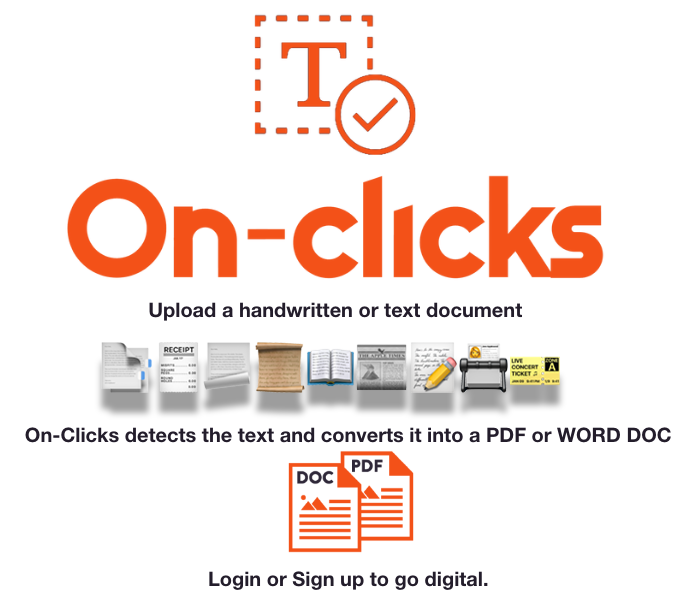
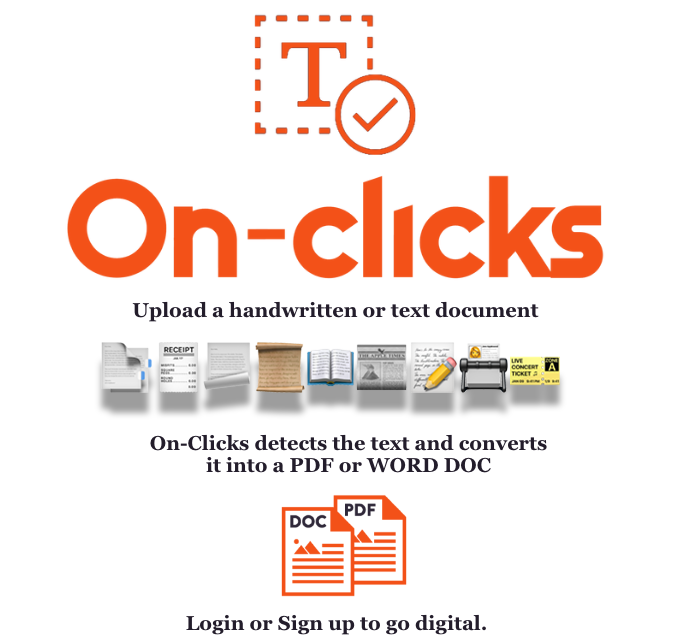
finished styling and proper page set up

diff --git a/src/pages/Profile.js b/src/pages/Profile.js
@@ -1,1 +1,51 @@
-// import React from "react";
+import React from "react";
+import Card from "react-bootstrap/Card"
+import Button from "react-bootstrap/Button"
+import Container from "react-bootstrap/Container"
+import DropdownButton from "react-bootstrap/DropdownButton"
+import Dropdown from "react-bootstrap/Dropdown"
+import InputGroup from "react-bootstrap/InputGroup"
+import FormControl from "react-bootstrap/FormControl"
+import Modal from "react-bootstrap/Modal"
+import { userInfo } from "os";
+
+
+function Profile (){ 
+    return(
+    <Container style = {{ marginTop: 50, justifyContent:'center', display: 'flex' }}>
+    <Card border="info" style={{ width: '18rem' }} style={{ width: '18rem' }}>
+  <Card.Img variant="top" src="./images/user.png" />
+  <Card.Body>
+    <Card.Title>Welcome {userInfo} </Card.Title>
+    <Card.Text>
+      <span>Translate a photo document into a WORD DOC or PDF.</span>
+    </Card.Text>
+    <Button variant="outline-info">Upload and Translate</Button>
+    <Card.Text><br></br>
+        <span>Search for previous documents</span>
+    </Card.Text>
+    <InputGroup className="mb-3">
+    <DropdownButton
+      as={InputGroup.Prepend}
+      variant="outline-info"
+      title="Format"
+      id="input-group-dropdown-1"
+    >
+      <Dropdown.Item href="#">PDF</Dropdown.Item>
+      <Dropdown.Item href="#">WORD DOC</Dropdown.Item>
+      <Dropdown.Divider />
+      <Dropdown.Item href="#">Both</Dropdown.Item>
+    </DropdownButton>
+    <FormControl aria-describedby="basic-addon1" />
+  </InputGroup> 
+   </Card.Body>
+</Card>
+</Container>
+
+    )}
+
+export default Profile;
+
+
+
+

diff --git a/src/pages/Upload.js b/src/pages/Upload.js
@@ -79,13 +79,13 @@ class Upload extends Component {
             return (
                 <div>
             {/* website description */}
-            <Container style = {{ marginTop: 10, justifyContent:'center' }}>
+            <Container border='light' style = {{ marginTop: 10, justifyContent:'center'}}>
             <div>
                 <h1>Upload Your File to be Scanned</h1>
                 <p>Allow our App to read the text off of your image and translate it into a useable format to either save for later retrieval.  Edit to make it more readable.  Or you can save it to a document or PDF.</p>
             </div>
             <div>
-            <img className="img-thumbnail rounded mx-auto d-block" src = "./images/ai-upload.gif" alt = "scan-doc" />
+            <img className="img-thumbnail rounded mx-auto d-block" src = "./images/uploadimg.png" alt = "scan-doc" />
 
             </div>
             </Container>
@@ -98,7 +98,7 @@ class Upload extends Component {
                 {/* <label className="up_styles"> */}
                 <input type="file" name="upload" onChange={this.onChange} />    
                 {/* </label>     */}
-            <Button className="sub outline-success btn-lg" type="submit" value="Upload">Upload</Button>
+            <Button className="outline-info btn-md" type="submit" value="Upload">Upload</Button>
             </Form>
             </div>
             <div><h2>{this.state.return}</h2></div>

diff --git a/src/pages/About.js b/src/pages/About.js
@@ -1,0 +1,28 @@
+import React from "react";
+import Container from "react-bootstrap/Container";
+import Col from "react-bootstrap/Col"
+import Row from "react-bootstrap/Row"
+
+function About () {
+    return (
+        <Container style = {{ marginTop: 30, justifyContent:'center' }}>
+  <Row>
+    <Col>
+    <img src="./images/aboutimg.png"></img>
+    </Col>
+    <Col>Although it is good practice, the answer is no. 
+From receipts to your Uncle Johns hand written short story, On-Clicks is designed with Googles Optical Character Recognition (OCR) to pick up each text character and format it into a digital file. 
+We are always looking to improve technology. Please let us know how we can get there with a kind email.</Col>
+  </Row>
+  <br></br>
+  <br></br>
+  <Row>
+    <Col><img src="./images/textsamplepickup.png"/></Col>
+    <Col><img src="./images/textsample.png" alt="photo-of-text" /></Col>
+    <Col><img src="./images/textconverted.png"/></Col>
+  </Row>
+</Container>
+    
+    )
+    }
+export default About

diff --git a/src/App.js b/src/App.js
@@ -7,8 +7,9 @@ import Navbar from "./components/Navbar";
 import Landing from "./pages/Landing";
 import Wrapper from "./components/Wrapper";
 import Footer from "./components/Footer";
-// import About from "./pages/About";
+import About from "./pages/About";
 import Upload from "./pages/Upload";
+import Profile from "./pages/Profile";
 
 
 class App extends Component {
@@ -20,10 +21,9 @@ class App extends Component {
       <Wrapper>
           <Route exact path="/" component={Landing} />
           <Route exact path="/HOME" component={Landing} />
-          <Route exact path="/PROFILE" component={Landing} />
-          {/* <Route exact path="/SEARCH" component={About} /> */}
-          {/* <Route exact path="/ABOUT" component={About} /> */}
+          <Route exact path="/PROFILE" component={Profile} />
           <Route exact path="/UPLOAD" component={Upload} />
+          <Route exact path="/ABOUT" component={About} />
 
         </Wrapper>
 

diff --git a/src/components/Navbar/index.js b/src/components/Navbar/index.js
@@ -25,7 +25,7 @@ function Navbar() {
           </li>
           <li className="nav-item">
             <Link
-              to="/userprofile"
+              to="/profile"
               className={window.location.pathname === "/profile" ? "nav-link active" : "nav-link"}
             >
               PROFILE
@@ -36,17 +36,9 @@ function Navbar() {
               to="/about"
               className={window.location.pathname === "/about" ? "nav-link active" : "nav-link"}
             >
-              SEARCH 
-            </Link>
-          </li>
-          {/* <li className="nav-item">
-            <Link
-              to="/about"
-              className={window.location.pathname === "/about" ? "nav-link active" : "nav-link"}
-            >
               ABOUT
             </Link>
-            </li> */}
+            </li>
             <li className="nav-item">
             <Link
               to="/upload"

diff --git a/src/components/Navbar/style.css b/src/components/Navbar/style.css
@@ -1,16 +1,17 @@
 nav.navbar {
-  display: grid;
+  justify-content: space-between;
+  display: flex;
   margin-bottom: 0;
   background-color: #bcd0da4d;
   font-family: -apple-system, BlinkMacSystemFont, Roboto, Oxygen, Ubuntu, Cantarell, 'Open Sans', 'Helvetica Neue', sans-serif;
-  grid-template-columns: 1fr  1fr;
+  /* grid-template-columns: 1fr  1fr; */
   margin-bottom: -10px;
 
 }
 
 
 navbar-nav {
-  display: inline-block;
-  margin: 0 20px;
+  /* display: inline-block; */
+  /* margin: 0 20px; */
 }
 

diff --git a/src/pages/Landing.js b/src/pages/Landing.js
@@ -16,13 +16,13 @@ function Landing () {
 {/* Buttons */}
 <div>
 <Container style = {{ marginTop: 10, justifyContent:'center' }}>
-<Button variant="outline-warning" size="lg">Sign Up</Button>
+<Button variant="outline-info" size="lg">Sign Up</Button>
 </Container>
 </div>
 
 <div>
 <Container style = {{ marginTop: 10, justifyContent:'center' }}>
-<Button variant="outline-danger" size="lg">Log In</Button>
+<Button variant="outline-primary" size="lg">Log In</Button>
 </Container>
 </div>
 </div>

diff --git a/src/components/Footer/index.js b/src/components/Footer/index.js
@@ -4,9 +4,15 @@ import "./style.css";
 
 function Footer(props) {
   return (
-    <footer className="footer">
-        <img src = "./images/footer.png" alt="footer-info" />
-          </footer>
+    <footer class='footer'>
+    <div>
+      <img src= './images/brandnameCLEAR.png' alt='logo'/>
+      <span>&copy; 2019 </span>
+    </div>
+    <div class='ml-auto'>
+      <a href='https://github.com/cliftonbnoble/OnClicks'>Github</a>
+    </div>
+  </footer>
   );
 }
 

diff --git a/src/index.css b/src/index.css
@@ -2,6 +2,7 @@ body{
     margin :0;
     padding: 0;
     text-align: center;
+    font-family: Georgia;
 }
 
 section {
@@ -10,8 +11,4 @@ section {
 
 container {
     margin: 0;
-}
-
-nav-link{
-    color-adjust: #f35118;
 }

diff --git a/src/components/Footer/style.css b/src/components/Footer/style.css
@@ -5,12 +5,3 @@
   margin-bottom: 0px;
 
 }
-
-/* .footer {
-  position: absolute;
-  bottom: 0;
-  left: 0;
-  right: 0;
-  background: #BCD0DA;
-  color: #f35118;
-} */
